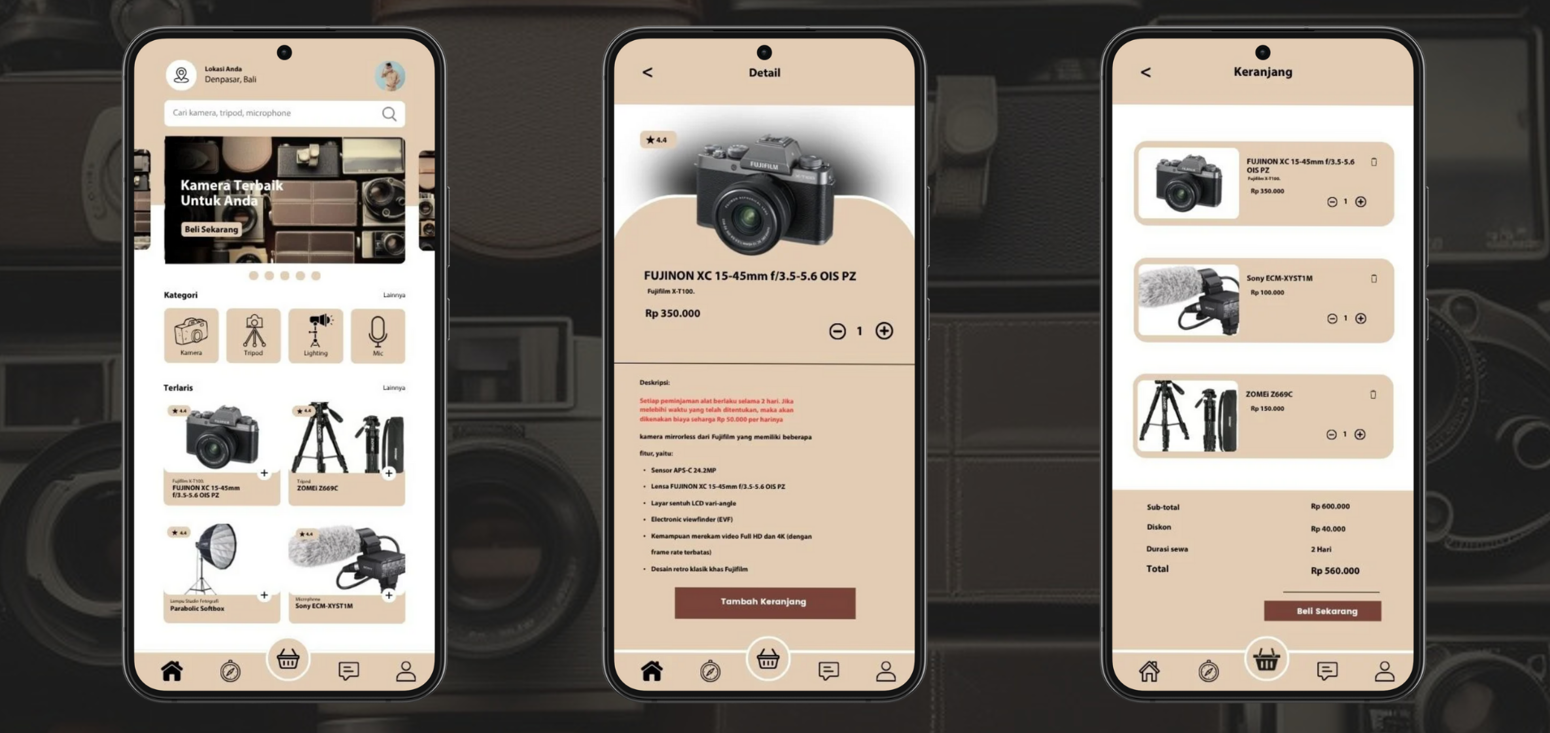
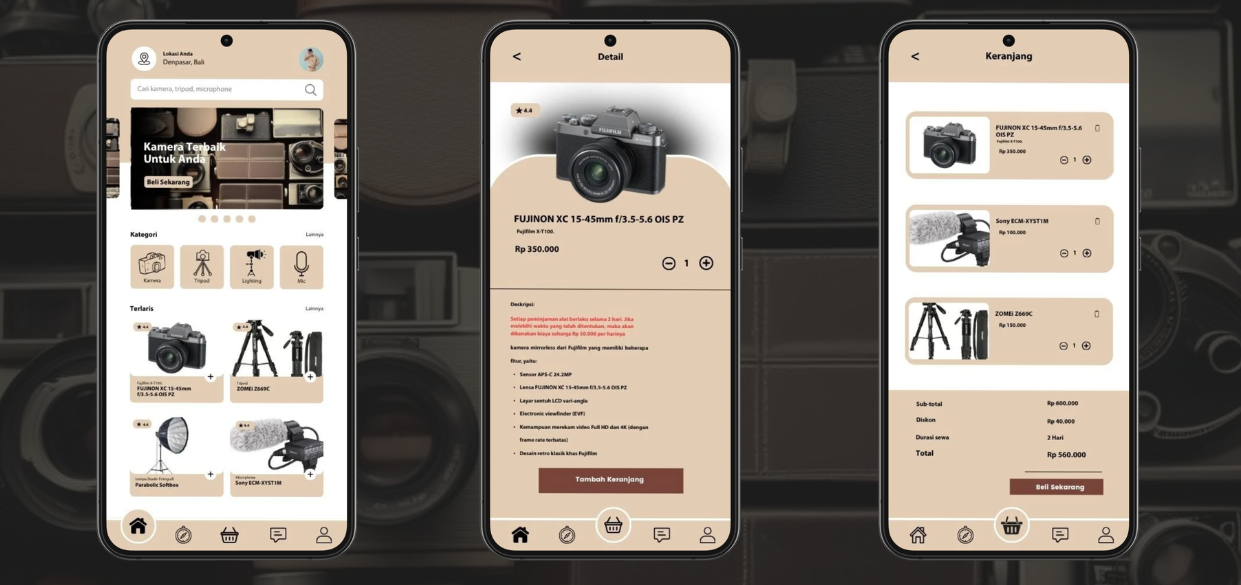
Perbaiki tampilan portofolio

diff --git a/index.html b/index.html
@@ -676,11 +676,11 @@
 
             <div class="col-lg-4 col-md-6 portfolio-item isotope-item filter-app">
               <div class="portfolio-content h-100">
-                <img src="assets/img/portfolio/konten-3.png" class="img-fluid" alt="">
+                <img src="assets/img/portfolio/konten-3.jpeg" class="img-fluid" alt="">
                 <div class="portfolio-info">
                   <h4>Freelance</h4>
                   <p>Promosi kuliner Bali</p>
-                  <a href="assets/img/portfolio/konten-3.png" title="Warung Manik Gianyar"
+                  <a href="assets/img/portfolio/konten-3.jpeg" title="Warung Manik Gianyar"
                     data-gallery="portfolio-gallery-app" class="glightbox preview-link"><i
                       class="bi bi-zoom-in"></i></a>
                 </div>
